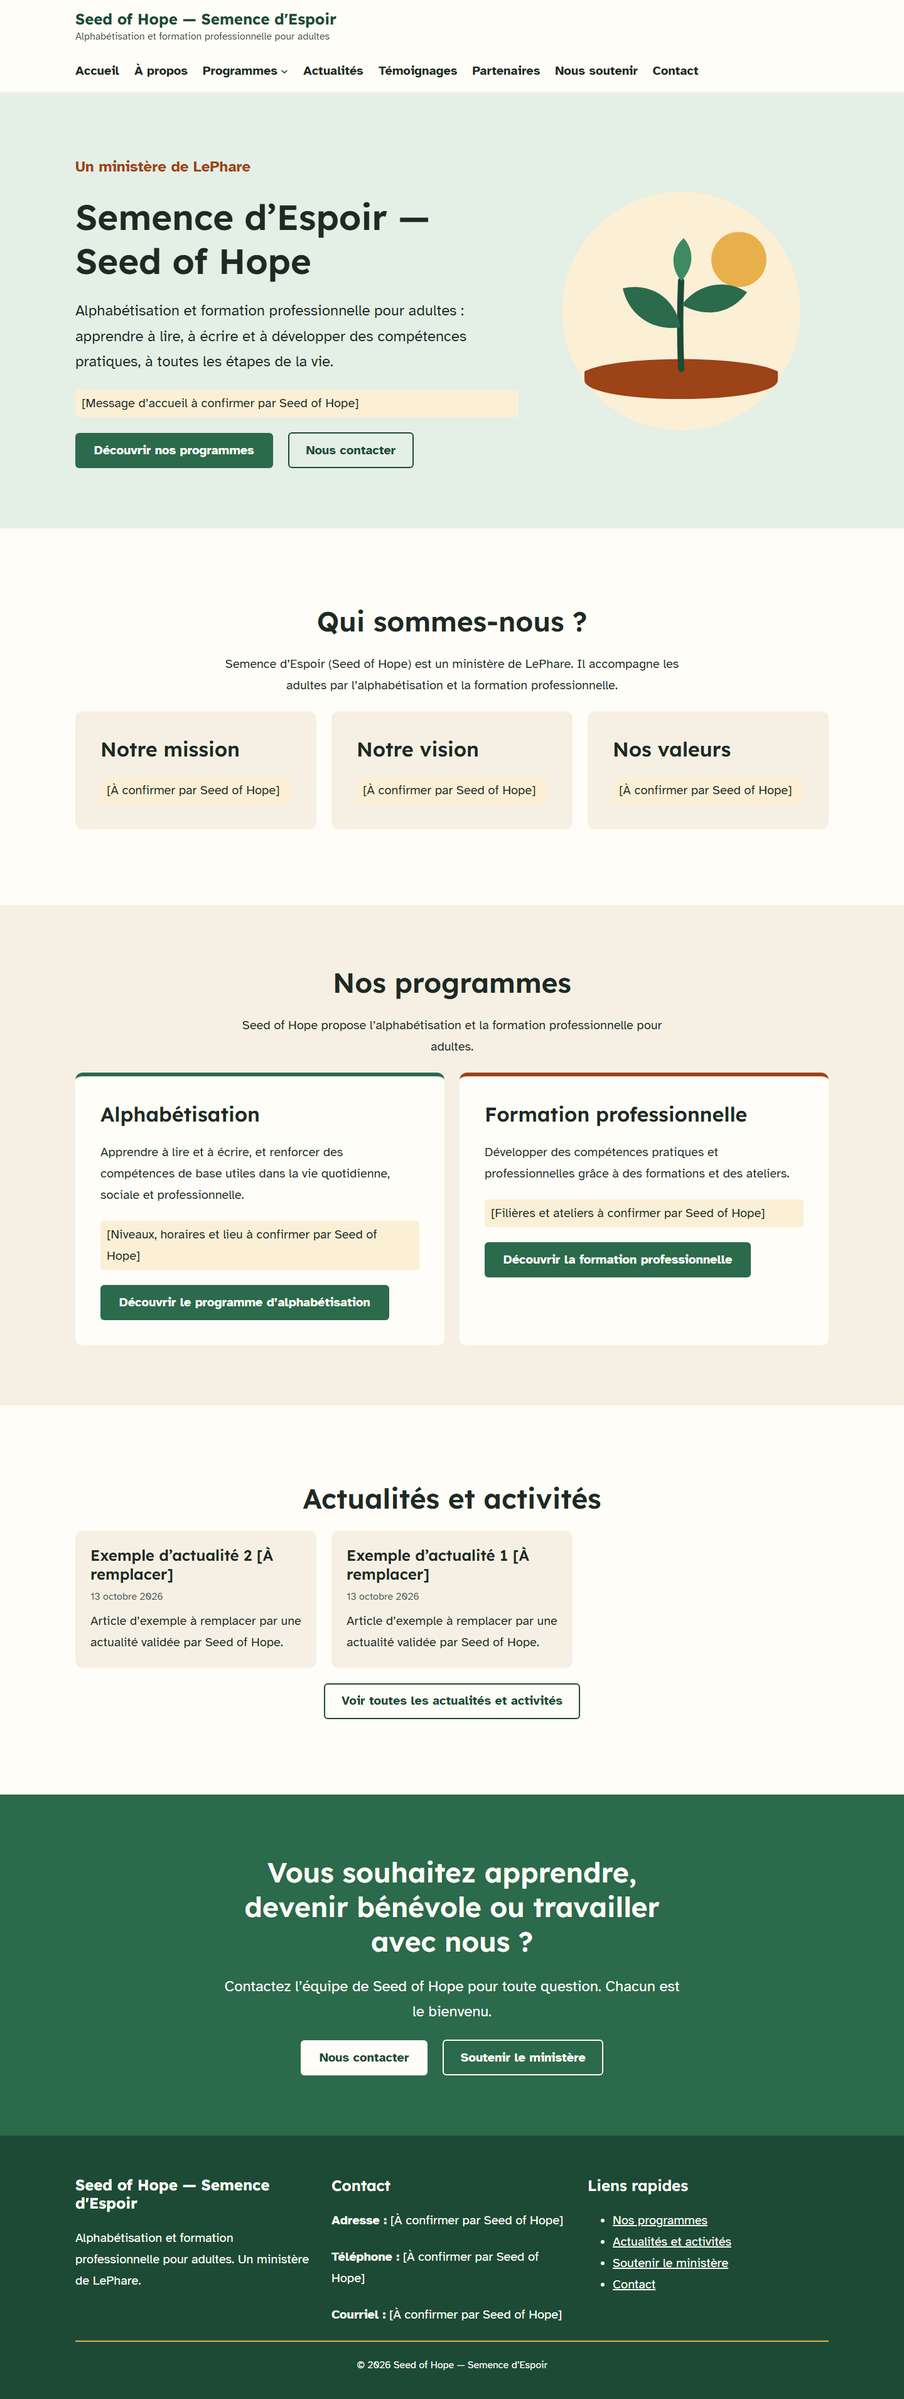
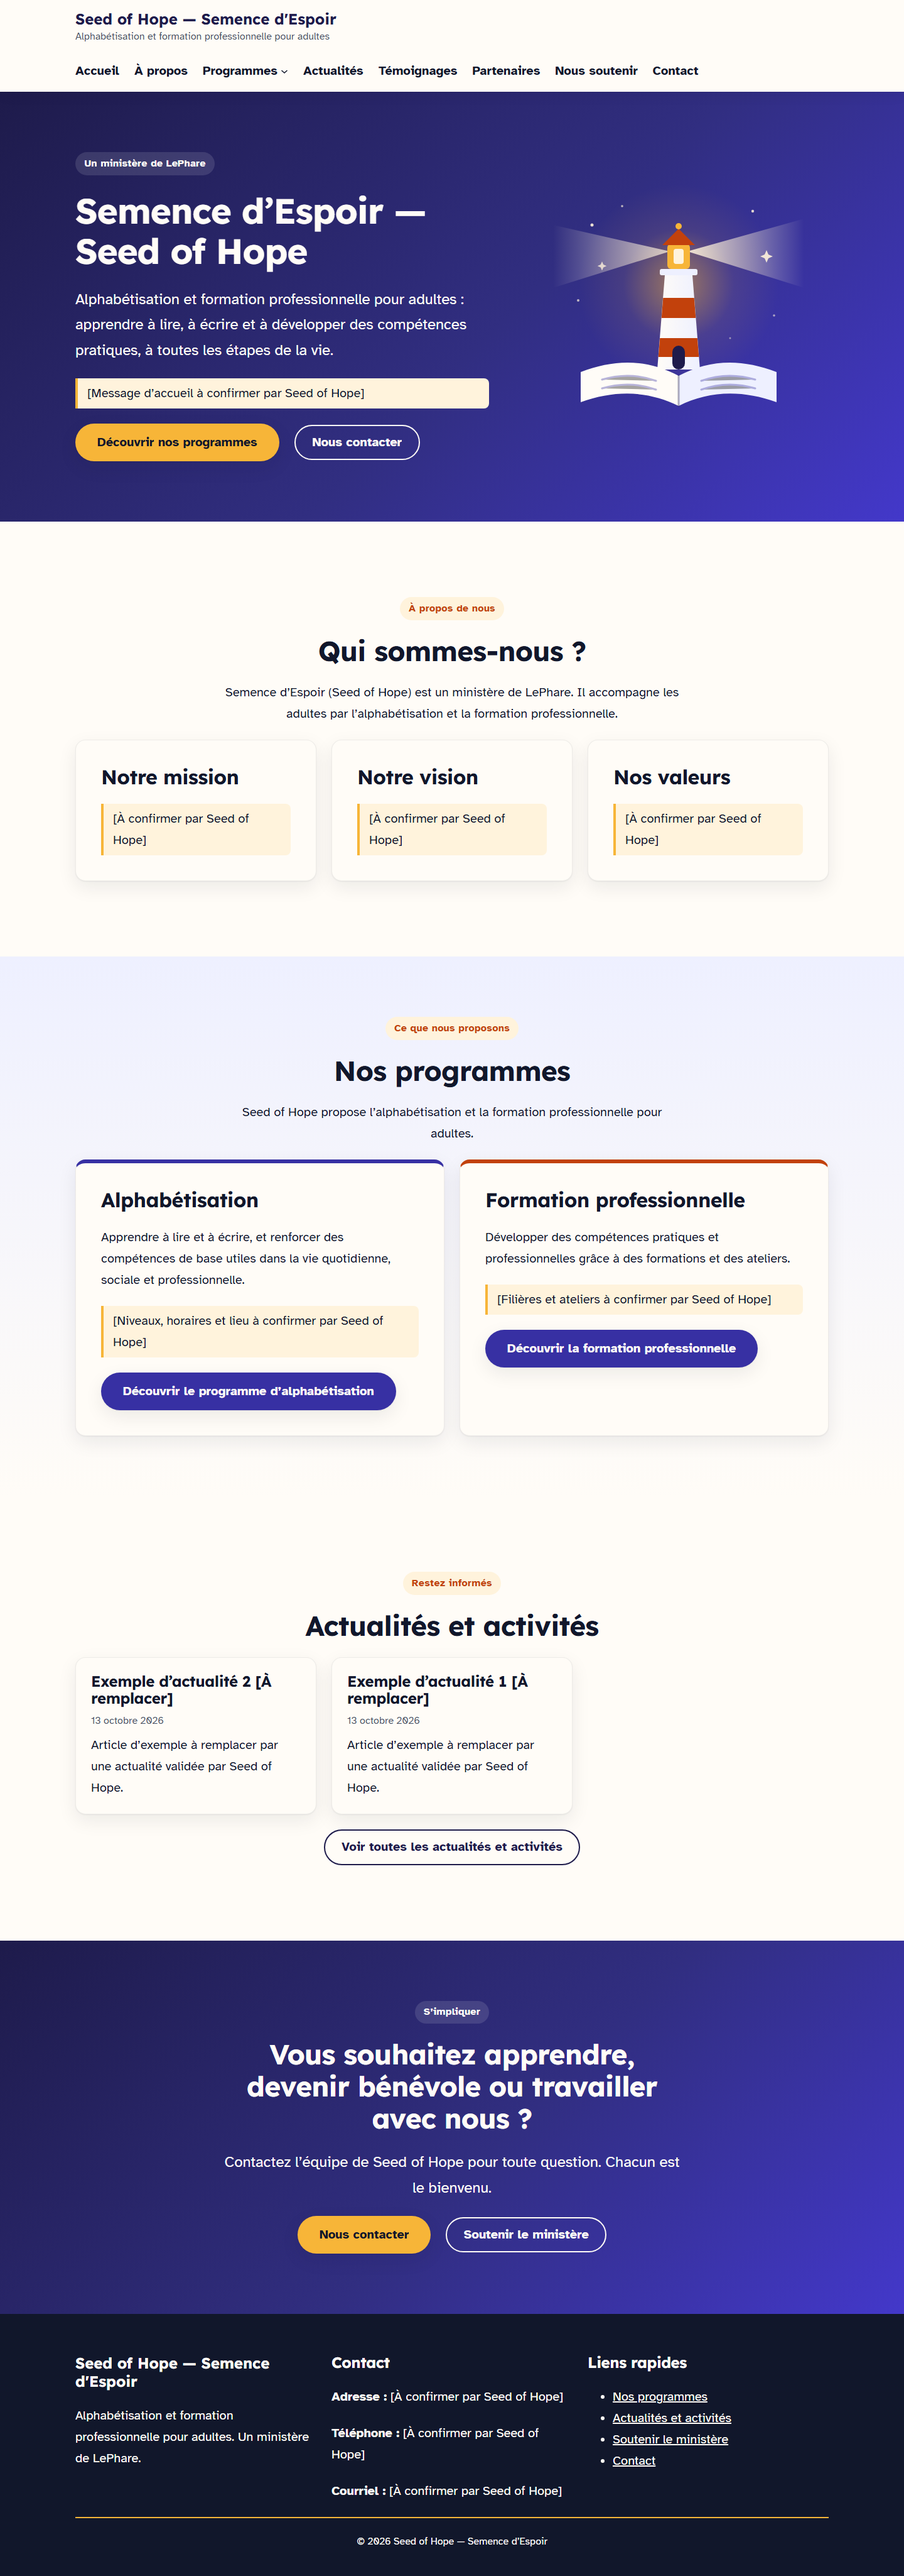
docs: update design decisions, theme readme and screenshots for v0.2

diff --git a/docs/decisions.md b/docs/decisions.md
@@ -26,14 +26,18 @@ Short architecture decision records (ADR). Add a new entry instead of rewriting 
 
 ## ADR-003 — Design tokens in `theme.json`, contrast checked in CI
 
-- **Palette** (warm and sober — hope, growth, learning): warm white `#FFFDF8`, sand `#F6F0E4`, deep green ink
-  `#1E2A23`, leaf green `#2B6A4B`, forest green `#1D4A35`, terracotta `#9C4318`, sunrise gold `#E8B04A`,
-  soft sage `#E4EFE6`, soft sunrise `#FBEFD6`.
+- **Palette "LePhare"** (v0.2, replaces the first green palette, which looked agricultural): the night sky and
+  the lighthouse beam of LePhare, with the warm light of hope.
+  Night ink `#11172B`, slate `#4B5368`, lighthouse indigo `#3730A3`, night sky `#1E1B4B`, ember `#C2410C`,
+  sunrise `#F7B538`, warm white `#FFFCF7`, stone `#F4F1EC`, mist `#EEF0FF`, dawn `#FFF3DC`.
+- **Gradients**: *Night sky* (hero, call to action, impact), *Mist* (programmes, page titles), *Dawn* (testimonials).
+  **Shadows**: *Card* and *Lift*. **Buttons**: pill-shaped, sunrise gold on dark sections.
+- **Block styles** editors can pick without code: *Eyebrow label* (paragraph) and *Card* (group).
 - **Custom colours are disabled** in the editor so editors can only pick palette colours, and every
   text/background pair used is ≥ 4.5:1 (WCAG AA). `scripts/check-contrast.mjs` reads `theme.json` in CI;
-  the lowest pair is 5.16:1.
+  the lowest pair is 4.57:1 (ember on mist). White text on the lightest end of the night-sky gradient is 7.7:1.
 - **Placeholder** — the logo, official colours and photos are still to be provided by the client
-  (`blocked:client`). The palette will be adjusted then, and the contrast check will catch any regression.
+  (`blocked:client`, #3). The palette will be adjusted then, and the contrast check will catch any regression.
 
 ## ADR-004 — Readable typography, self-hosted fonts
 
@@ -50,11 +54,11 @@ Short architecture decision records (ADR). Add a new entry instead of rewriting 
 - "Aller au contenu" skip link: printed by **WordPress core (7.0+) on the server**, translated, pointing at
   `main#main`; styled by the theme. (We first shipped our own and removed it: core's version is better and
   duplicates were confusing.)
-- Visible focus ring everywhere (3 px terracotta, gold on dark sections).
+- Visible focus ring everywhere (3 px indigo, gold on dark sections).
 - Mobile menu: a text button "Menu" (clearer than an icon alone) up to 1 200 px wide, because eight menu items
   in a large font wrap on tablets.
 - FAQ uses the native `<details>` element: works with keyboard and without JavaScript.
-- No text in images. The hero illustration is a decorative SVG with `alt=""`.
+- No text in images. The hero illustration (a lighthouse whose light rises from an open book) is a decorative SVG with `alt=""`.
 - Tested on every page with **axe-core** (WCAG 2.0/2.1/2.2 A and AA) on desktop and mobile, plus keyboard tests.
 
 ## ADR-006 — "Programme" content type: not now, pages for the launch
